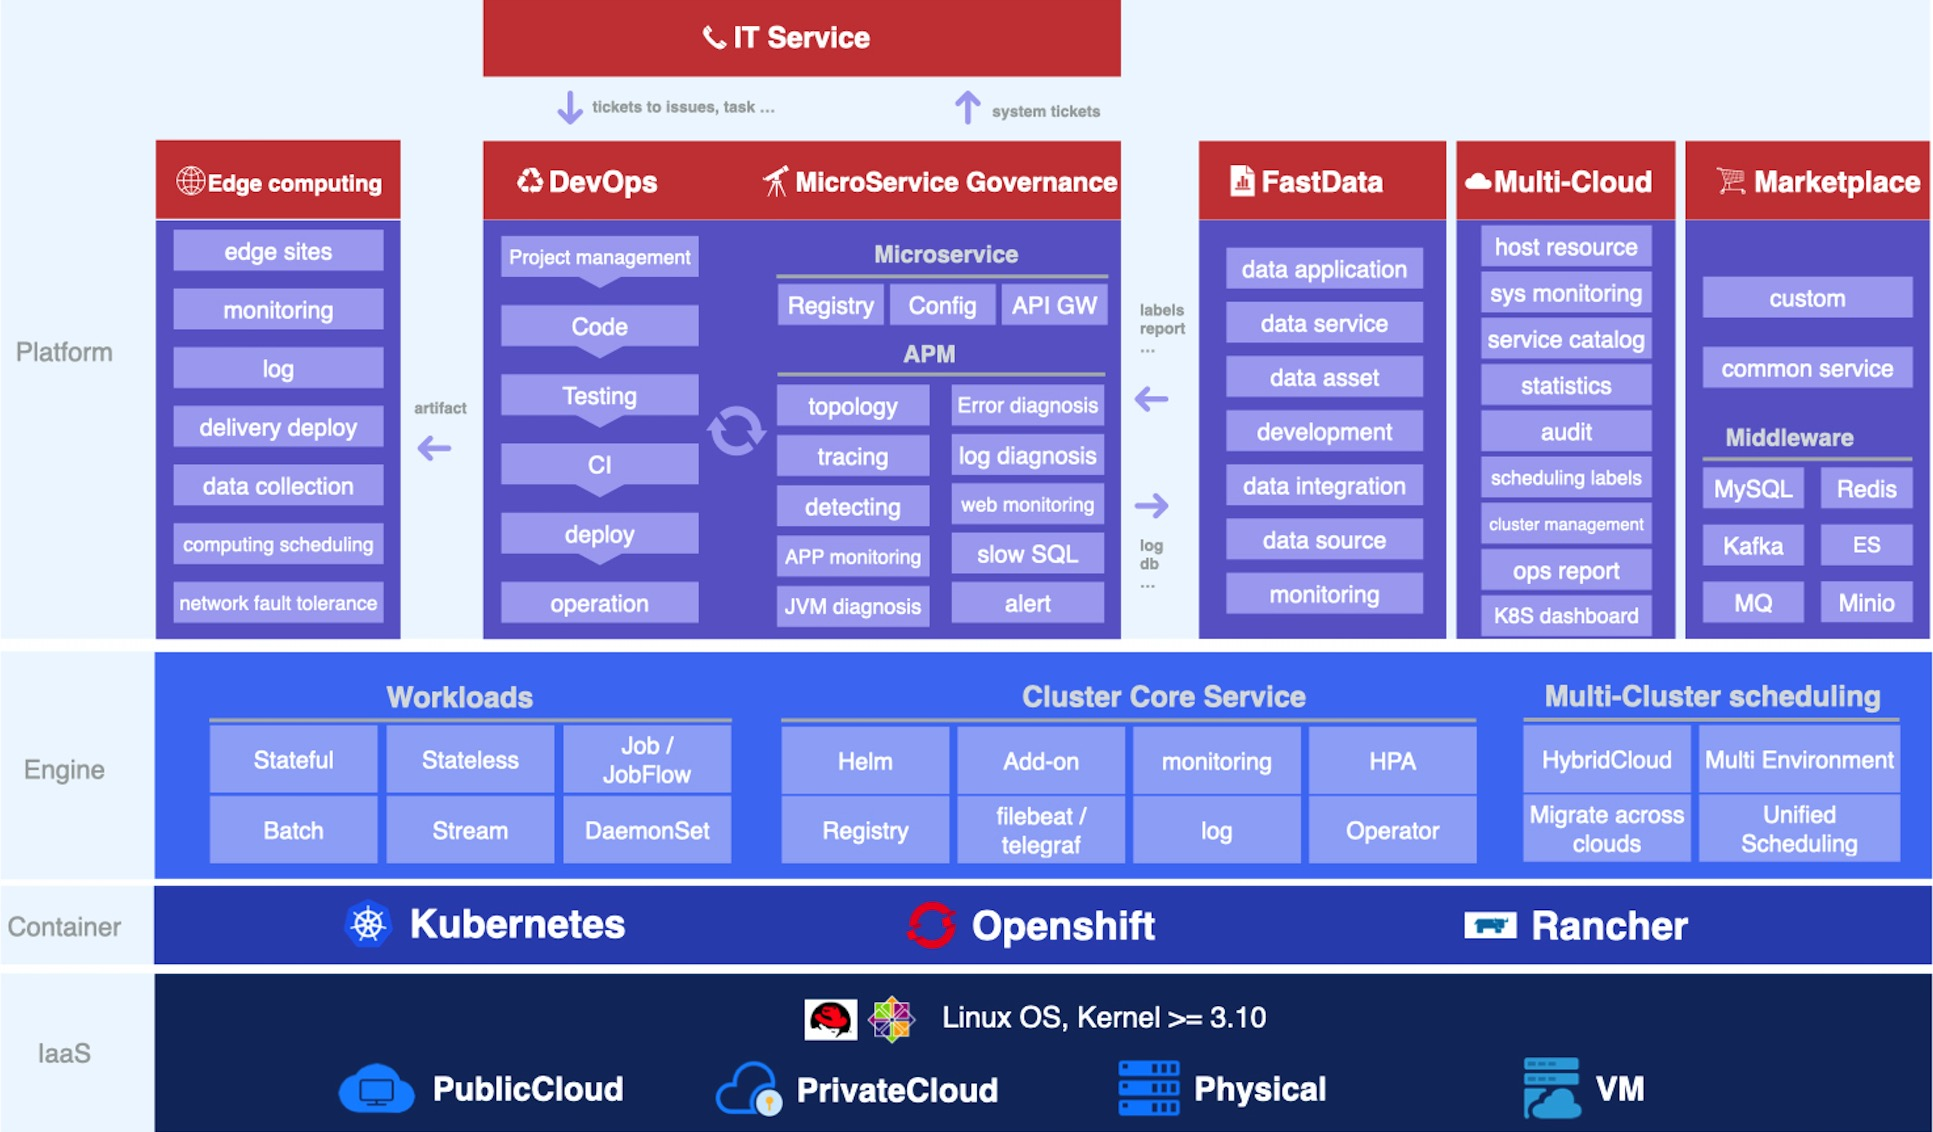
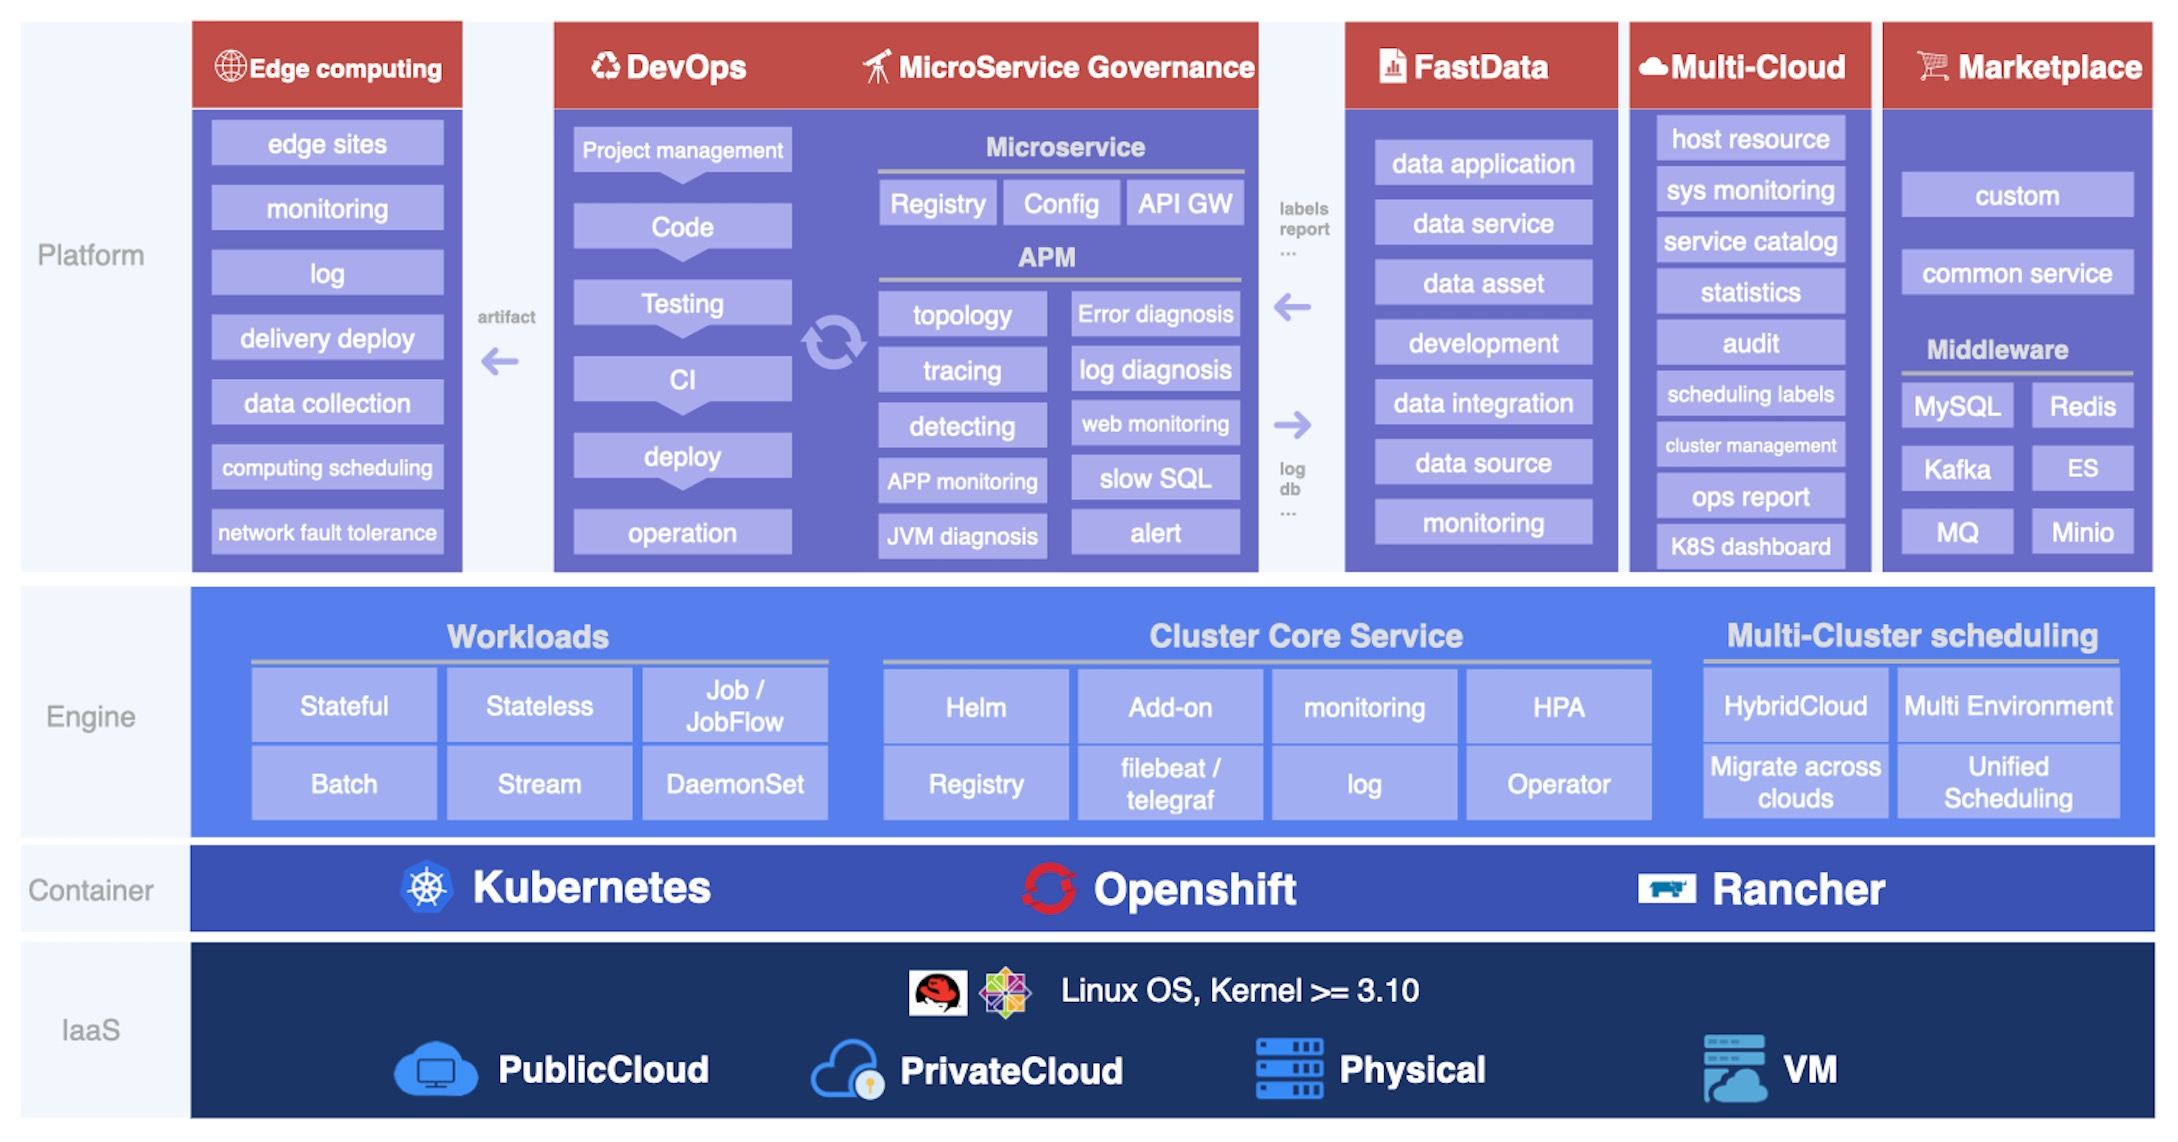
update the functional arch (#208)

diff --git a/README.md b/README.md
@@ -19,8 +19,6 @@ Erda is mainly composed of the following parts, they are
 - Edge Computing
 - FastData Management
 
-We will gradually open source the entire function according to the workload. The first to complete will be DevOps, multi-cloud management, followed by microservice governance, edge computing, etc. IT service is a function planned in the roadmap, and it has not yet started.
-
 ## Erda's vision is "Build any application, Deploy anywhere, Monitor everything".
 ![](./docs/assets/vision.png)
 
